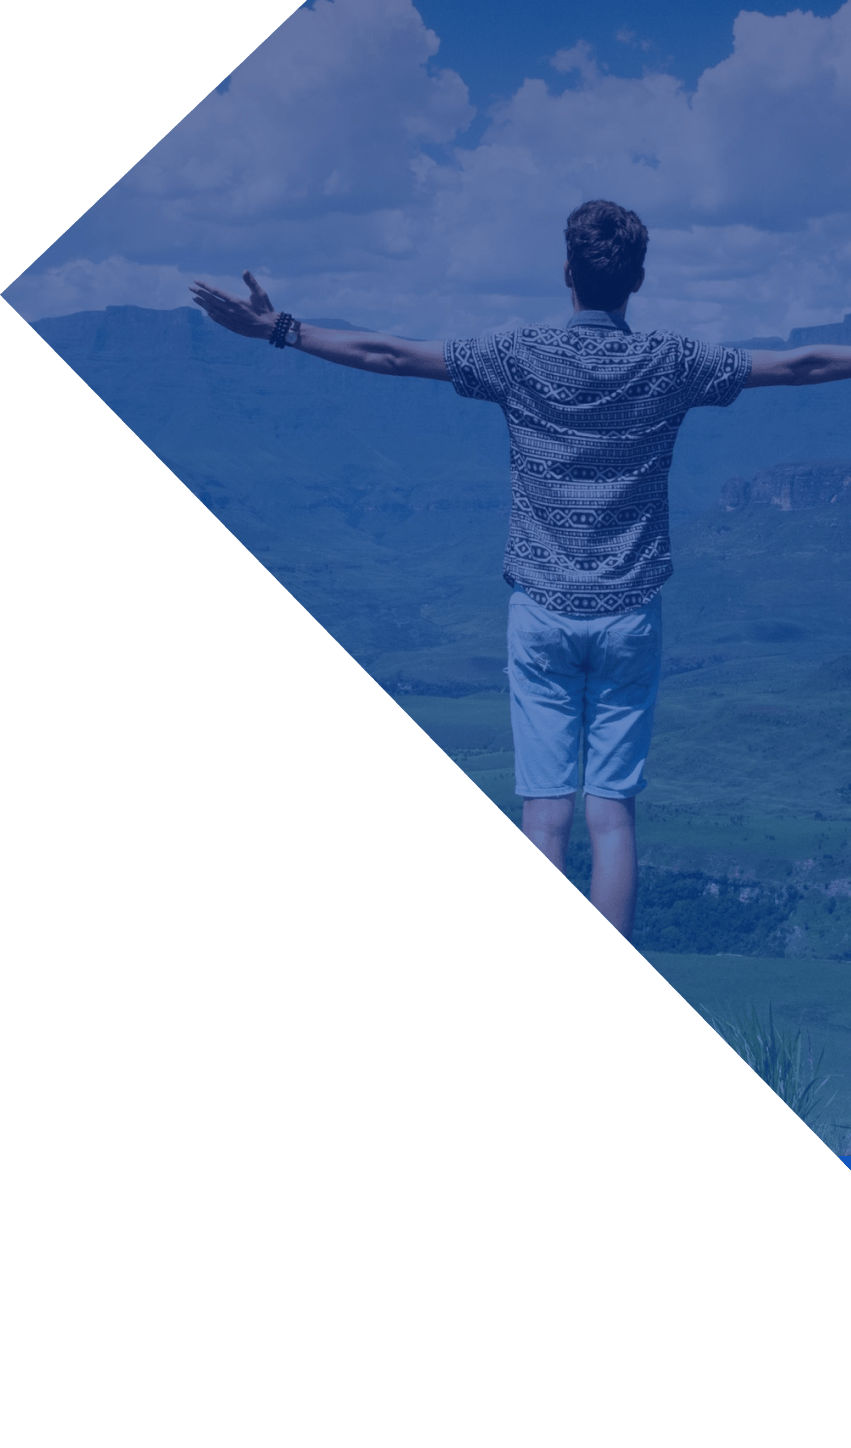
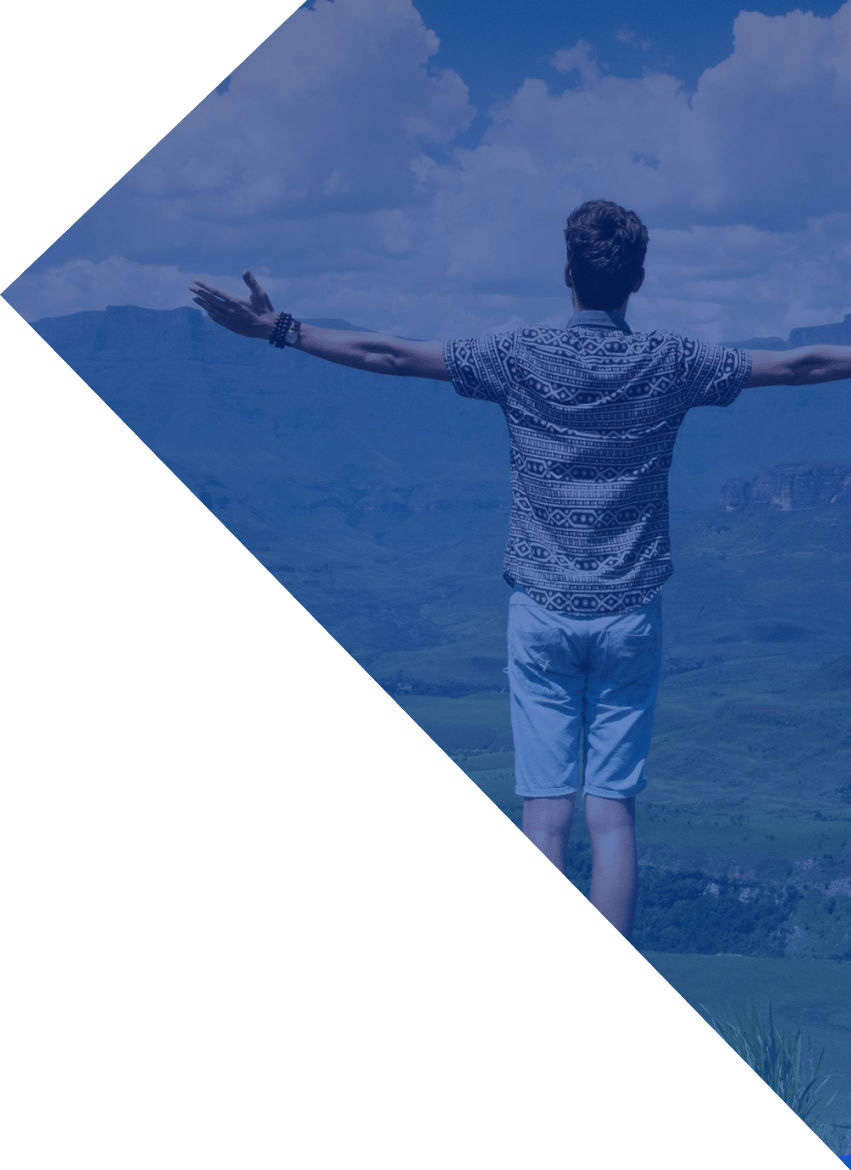
Initial commit

diff --git a/stories/v2.stories.js b/stories/v2.stories.js
@@ -8,6 +8,7 @@ import { Highlights, Highlight } from '../components/highlights';
 import { Bit } from '../components/bit';
 import { Container } from '../components/container';
 import { VideoPlayer } from '../components/video-player';
+import { BackgroundVideo } from '../components/background-video';
 
 import { highlights } from '../components/constants'
 
@@ -48,6 +49,13 @@ const achievements = [
     description: 'idea conceived'
   }
 ];
+
+storiesOf('Background Video', module)
+  .addDecorator(story => <div>{story()}</div>)
+  .add(
+    'Default',
+    () => <BackgroundVideo />
+  );
 
 storiesOf('Video Player', module)
   .addDecorator(story => <div style={{height:"150px", backgroundColor:"#516ba4"}}>{story()}</div>)

diff --git a/components/video-player.scss b/components/video-player.scss
@@ -1,7 +1,11 @@
 .VideoPlayer{
-  font-family: 'Roboto';
-	position: relative;
-  max-width: max-content;
+    font-family: 'Roboto';
+    max-width: max-content;
+    padding-left: 70px;
+    position: absolute;
+    height: 100%;
+    top: 25.2%;
+    margin-top: -25px;
 
 	&__button{
 		width: 51px;
@@ -34,6 +38,11 @@
 
 @media only screen and (max-width: 576px) {
   .VideoPlayer {
+    padding-left: 0px;
+    position: relative;
+    height: auto;
+    top: 0px;
+    margin: 0 auto;
 
     &__button{
       background: linear-gradient(to bottom, #001358, #125AC4);

diff --git a/components/background-video.js b/components/background-video.js
@@ -1,0 +1,16 @@
+import React from 'react'
+import Background from '../static/assets/mybit_placeholder.jpg';
+import stylesheet from './background-video.scss'
+import {VideoPlayer} from './video-player'
+
+export const BackgroundVideo = () => {
+  return (
+    <div className="Background-video">
+      <style dangerouslySetInnerHTML={{ __html: stylesheet }} />
+      <div className="Background-video__wrapper">
+        <img className="Background-video__image" src={Background}/>
+        <VideoPlayer />
+      </div>
+    </div>
+  )
+}

diff --git a/components/background-video.scss b/components/background-video.scss
@@ -1,0 +1,32 @@
+.Background-video{
+    height: 1170px;
+    background-size: cover;
+    width: 59.09%;
+    margin: 0px 0px;
+    position: fixed;
+    right: 0px;
+    max-width: 851px;
+    top: 0px;
+
+    &__image{
+      width: 100%;
+    }
+
+    &__wrapper{
+      position: relative;
+    }
+}
+
+@media only screen and (max-width: 576px) {
+  .Background-video{
+    height: auto;
+    width: 100%;
+    position: relative;
+    max-width: auto;
+    top: auto;
+
+    &__image{
+      display: none;
+    }
+  }
+}
